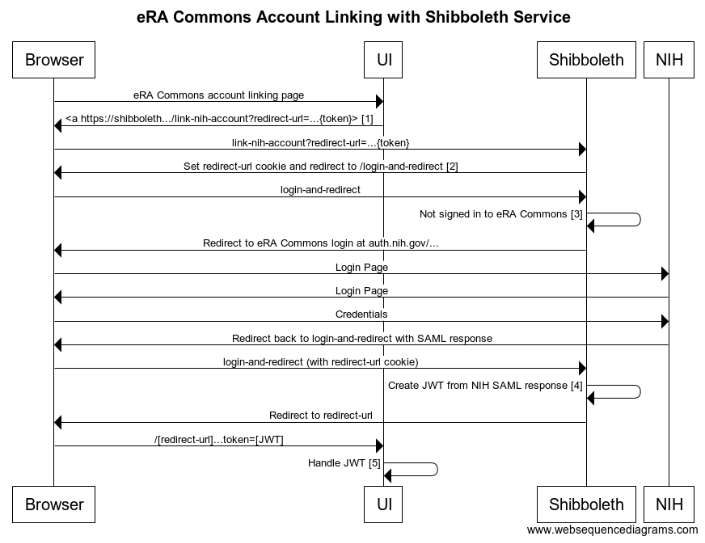
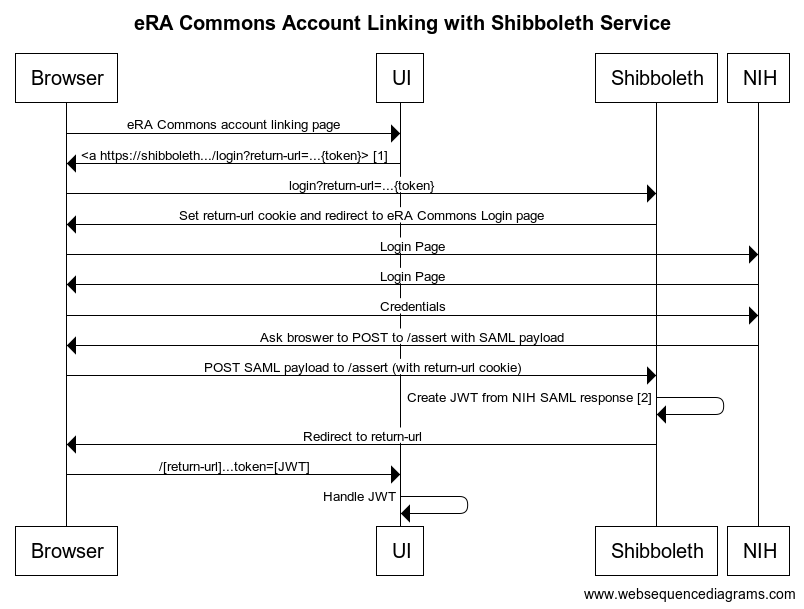
Update README (#30)

Changed region(s): [[0.0, 0.0, 0.9986, 1.0], [0.5305, 0.1768, 0.5617, 0.2063]]

diff --git a/src/main.js b/src/main.js
@@ -1,3 +1,4 @@
+const assert = require('assert').strict
 const auth = require('auth')
 const bodyParser = require('body-parser')
 const config = require('config')
@@ -10,6 +11,8 @@ const url = require('url')
 const u = require('utils')
 const whitelist = require('whitelist')
 
+// TODO(dmohs): This doesn't make sense. Since I have to change code to update the config, there is
+// little value in this separation. Just inline the values here instead.
 const configPath = 'gs://broad-shibboleth-prod.appspot.com/configs/config.20200103a.json'
 
 function escapeHtml(html) {
@@ -79,6 +82,10 @@ app.post('/.src', async (req, res, next) => {
     return
   }
   const requiredPerm = 'appengine.applications.update'
+  assert.ok(
+    process.env.GOOGLE_CLOUD_PROJECT,
+    'GOOGLE_CLOUD_PROJECT environment variable not defined'
+  )
   const permsCheck = u.httpreq({
     hostname: 'cloudresourcemanager.googleapis.com',
     path: `/v1/projects/${process.env.GOOGLE_CLOUD_PROJECT}:testIamPermissions`,

diff --git a/README.md b/README.md
@@ -2,85 +2,64 @@
 
 A generic Shibboleth service provider service for use in Shibboleth authentication schemes (e.g. NIH).
 
+https://broad-shibboleth-prod.appspot.com/
+
 ![eRA Commons Account Linking Sequence Diagram](era-commons-flow.png)
 
 <!--
 title eRA Commons Account Linking with Shibboleth Service
 Browser->UI: eRA Commons account linking page
-UI->Browser: <a https://shibboleth.../link-nih-account?redirect-url=...{token}> [1]
-Browser->Shibboleth: link-nih-account?redirect-url=...{token}
-Shibboleth->Browser: Set redirect-url cookie and redirect to /login-and-redirect [2]
-Browser->Shibboleth: login-and-redirect
-Shibboleth->Shibboleth: Not signed in to eRA Commons [3]
-Shibboleth->Browser: Redirect to eRA Commons login at auth.nih.gov/...
+UI->Browser: <a https://shibboleth.../login?return-url=...{token}> [1]
+Browser->Shibboleth: login?return-url=...{token}
+Shibboleth->Browser: Set return-url cookie and redirect to eRA Commons Login page
 Browser->NIH: Login Page
 NIH->Browser: Login Page
 Browser->NIH: Credentials
-NIH->Browser: Redirect back to login-and-redirect with SAML response
-Browser->Shibboleth: login-and-redirect (with redirect-url cookie)
-Shibboleth->Shibboleth: Create JWT from NIH SAML response [4]
-Shibboleth->Browser: Redirect to redirect-url
-Browser->UI: /[redirect-url]...token=[JWT]
-UI->UI: Handle JWT [5]
+NIH->Browser: Ask broswer to POST to /assert with SAML payload
+Browser->Shibboleth: POST SAML payload to /assert (with return-url cookie)
+Shibboleth->Shibboleth: Create JWT from NIH SAML response [2]
+Shibboleth->Browser: Redirect to return-url
+Browser->UI: /[return-url]...token=[JWT]
+UI->UI: Handle JWT
 -->
 
-1. The web UI presents a link that contains a `redirect-url` parameter which includes the literal string `{token}`. Once the user has successfully completed the eRA Commons login flow, they will be redirected to this URL with the `{token}` literal replaced by the encoded JWT.
-2. The passed `redirect-url` parameter is stored as a cookie so it can be used later.
-3. The /login-and-redirect path is handled by the libapache2-mod-shib2 Apache module. The user is able to visit that path only if they have an active eRA Commons session. Otherwise, they are automatically redirected to the eRA Commons login page.
-4. The JWT is encoded (`jwt-encode(era-commons-username, secret)`) and signed with the secret at vault path `secret/dsde/prod/shibboleth/signing-secret`. The same secret must be used to verify the token passed to the `redirect-url` parameter.
-5. `era-commons-username = jwt-decode(token, secret)`
+1. The web UI presents a link with a `return-url` parameter which includes the literal string `{token}`. Once the user has successfully completed the eRA Commons login flow, they will be redirected to this URL with the `{token}` literal replaced by the encoded JWT.
+2. The JWT is encoded and signed with this system's private key. It must be verified using this system's public key, available at the URL `/public-key.pem`.
 
-## Configuration
+## Development
 
-Copy `src/docker/run/config-example.json` `target/config/config.json` and modify for your environment. Run the container to see additional configuration requirements. If you're using Vault, you can generate secrets using this command:
-```bash
-docker run --rm -v "$PWD":/working broadinstitute/shibboleth-service-provider \
-  fetch-vault-configs <vault-token> <environment-name>
-```
-* `vault-token`: usually "$(<~/.vault-token)"
-* `environment-name`: `dev` or `prod`
+### Philosophy
 
-## Running for Development
+Fast cycles enable learning through experimentation. This provides the foundation for deep system interrogation and innovation as well as safety because of the ability to recover quickly. Fast cycles have been prioritized in this implementation, both for local changes as well as changes to the system as it exists in a production environment.
 
-`DEV=true` exposes the `/restart` endpoint for server restarting.
+Approachability is achieved through supporting development and testing as first-class features. Fake, development-appropriate flows with examples are implemented and supported as production features.
+
+Loose coupling is achieved through parameterization, specifically the `return-url`. This has security implications, so these URLs must be on a whitelist. The flow is carefully constructed so developers can complete and test a production implementation before requesting addition to the whitelist, which is not necessary to enable the flow, only to make it smoother.
+
+### Getting Started
 
 ```bash
-docker run -it --rm --name shib -p 80:80 -p 443:443 \
-  -e DEV='true' -v "$PWD":/working \
-  broadinstitute/shibboleth-service-provider
+npm start
 ```
 
-## Building
-
-`lein cljsbuild auto` will rebuild whenever files are changed and restart the server by calling `https://$APP_HOST/restart`.
+Minimal server up test:
 
 ```bash
-docker run --rm -it -v "$PWD":/working -e APP_HOST=shib \
-  broadinstitute/shibboleth-service-provider-build \
-  lein cljsbuild auto
+curl localhost:8080/hello
 ```
 
-## Deploying
+Beyond this, it should be possible to interrogate the system by using any HTTP client. The error messages should help guide toward correct usage. This ideal is not always achieved, but it is the goal.
 
-Steps to build a deployment image:
-```bash
-docker build -t broadinstitute/shibboleth-service-provider-build -f src/docker/build/Dockerfile .
-docker run --rm -it -v "$PWD":/working broadinstitute/shibboleth-service-provider-build \
-  lein cljsbuild once
-docker build -t broadinstitute/shibboleth-service-provider -f src/docker/run/Dockerfile .
-# Push docker images.
-# On deployment server, follow the "Configuration" instructions, then:
-docker run -it --rm -p 80:80 -p 443:443 \
-  -v "$PWD"/target:/working/target
-  broadinstitute/shibboleth-service-provider
-```
+### Hot Reloading
 
-## Generating Certificates for Shibboleth
-
-**Warning: This will require coordination with NIH's Identity Provider System.**
+If running locally, the server must be started with the environment variable `GOOGLE_CLOUD_PROJECT` defined, which provides the source for permissions checking.
 
 ```bash
-docker run --rm -it -v "$PWD":/working broadinstitute/shibboleth-service-provider shib-keygen -o .
+GOOGLE_CLOUD_PROJECT=broad-shibboleth-prod npm start
 ```
 
-This will generate `sp-cert.pem` and `sp-key.pem` in $PWD.
+```bash
+tar -c --exclude='./node_modules/*' . \
+  | curl localhost:8080/.src --data-binary @- \
+  -H "Authorization: Bearer $(gcloud auth print-access-token)"
+```
